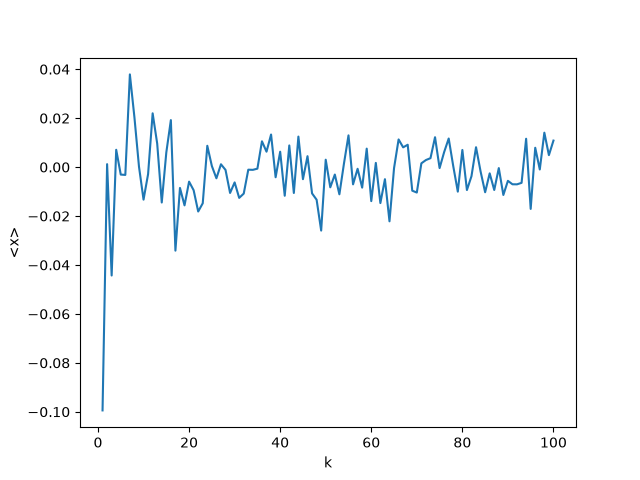
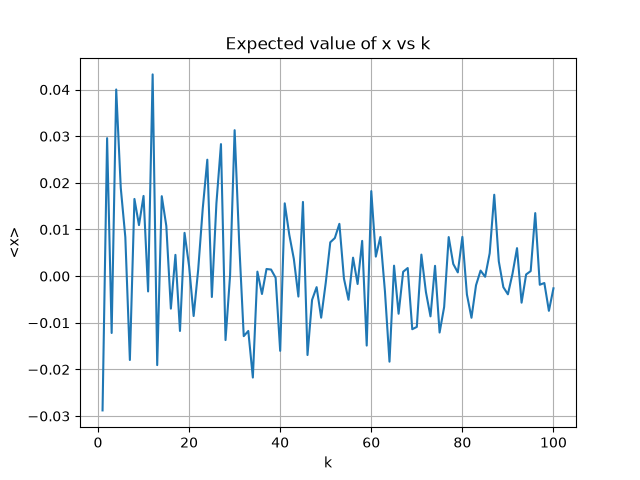
FINISHED

diff --git a/HMC_an.py b/HMC_an.py
@@ -71,6 +71,7 @@ plt.figure()
 plt.plot(k, exp_x)
 plt.xlabel('k')
 plt.ylabel('<x>')
+plt.title('Expected value of x vs k')
 plt.grid(True)
 plt.savefig('exp_x_vs_k.png')
 
@@ -92,6 +93,7 @@ plt.figure()
 plt.plot(lam, exp_x)
 plt.xlabel('lam')
 plt.ylabel('<x>')
+plt.title('Expected value of x vs lam')
 plt.grid(True)
 plt.savefig('exp_x_vs_lam.png')
 